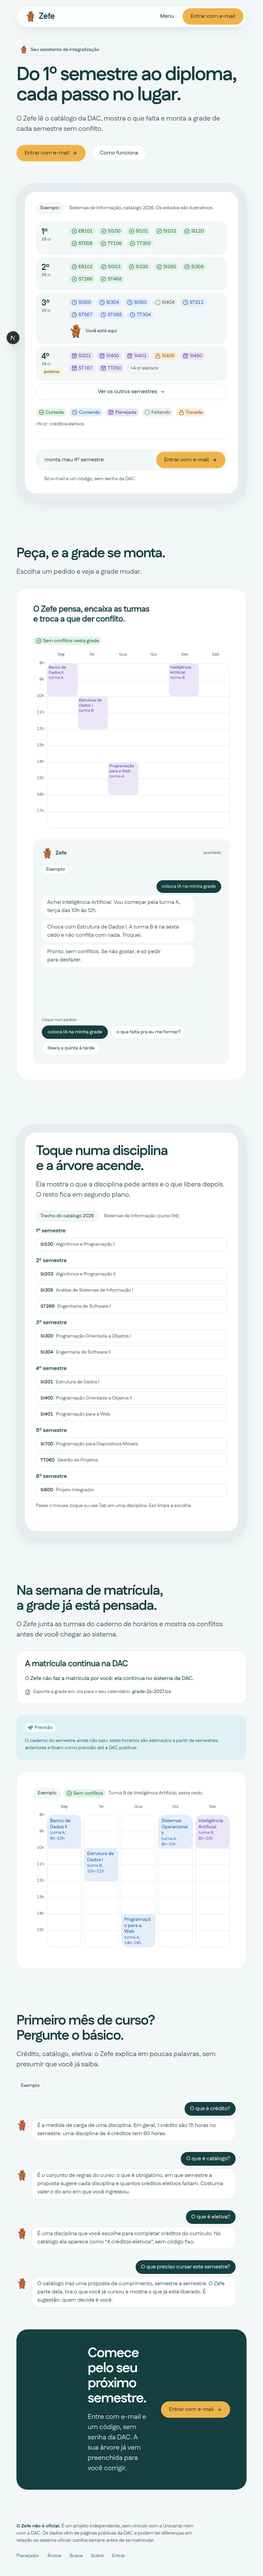
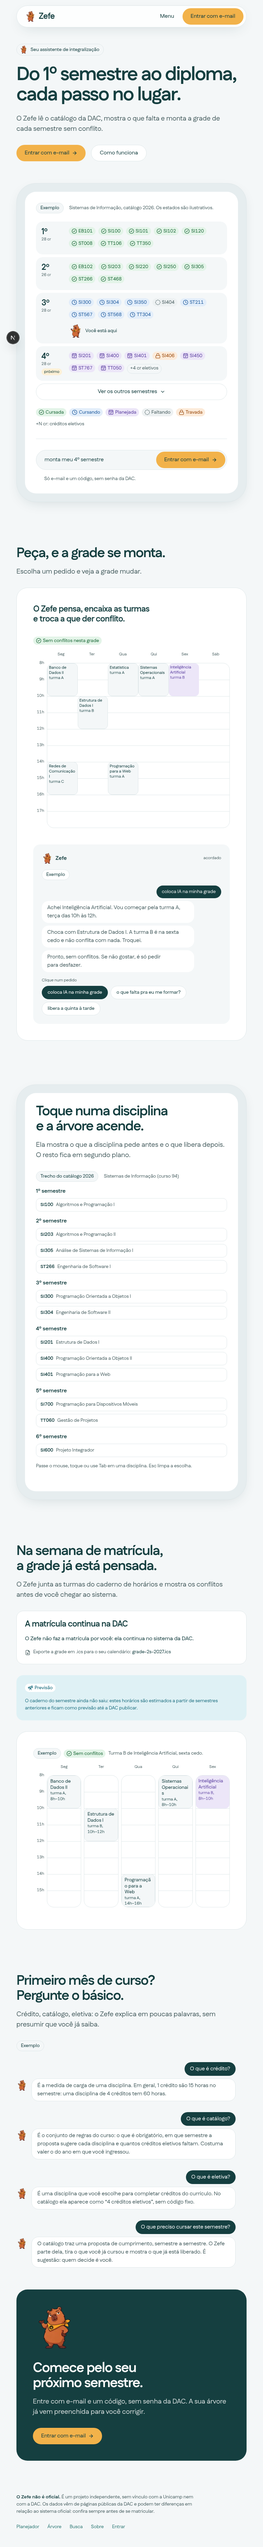
Landing v2: faixa final empilhada no tablet, chat sem vazio, agenda no celular, turmas neutras, calouro alinhado
Claude-Session: https://claude.ai/code/session_01XHBeA16jq99u1HLVpY9pk9

diff --git a/src/components/landing/PecaEVeja.tsx b/src/components/landing/PecaEVeja.tsx
@@ -8,6 +8,7 @@ import { cn } from "@/lib/utils";
 import { cenarios, type Bloco, type Cenario } from "./dados";
 
 const dias = ["Seg", "Ter", "Qua", "Qui", "Sex", "Sáb"];
+const diasLongos = ["Segunda", "Terça", "Quarta", "Quinta", "Sexta", "Sábado"];
 const HORA0 = 8;
 const HORA1 = 18; // a grade mostra só a faixa ocupada pelos exemplos
 const horas = Array.from({ length: HORA1 - HORA0 }, (_, i) => HORA0 + i);
@@ -98,7 +99,7 @@ export function PecaEVeja() {
 
   return (
     <div ref={raiz} className="grid min-w-0 gap-8 xl:grid-cols-[minmax(0,24rem)_minmax(0,1fr)] xl:gap-12">
-      <Cartao className="flex min-w-0 flex-col gap-4 border-transparent bg-ds-bg xl:order-1">
+      <Cartao className="flex min-w-0 flex-col gap-4 border-transparent bg-ds-bg xl:order-1 xl:self-start">
         <div className="flex items-center justify-between gap-2">
           <p className="flex items-center gap-2 text-ds-body font-bold text-ds-ink">
             <Mascote estado={pensando ? "pensando" : "feliz"} tamanho={32} decorativo className="size-8" />
@@ -109,7 +110,7 @@ export function PecaEVeja() {
           </p>
         </div>
         <p><Selo className="bg-ds-surface">Exemplo</Selo></p>
-        <div className="flex min-h-96 flex-col gap-2" role="log" aria-label="Conversa de exemplo com o Zefe">
+        <div className="flex flex-col gap-2" role="log" aria-label="Conversa de exemplo com o Zefe">
           {falas.map((f, i) => {
             const ultima = i === falas.length - 1 && f.de === "zefe";
             const texto = ultima ? f.texto.slice(0, dig) : f.texto;
@@ -166,13 +167,13 @@ export function PecaEVeja() {
             <Chip tom="cursada">Sem conflitos nesta grade</Chip>
           )}
         </div>
-        <div className="flex gap-2">
+        <div className="hidden gap-2 md:flex">
           <div className="w-8 shrink-0" aria-hidden />
           {dias.map((d) => (
             <p key={d} className="min-w-0 flex-1 text-center text-ds-caption">{d}</p>
           ))}
         </div>
-        <div className="flex gap-2">
+        <div className="hidden gap-2 md:flex">
           <div className="w-8 shrink-0" aria-hidden>
             {horas.map((h) => (
               <p key={h} className="h-12 -translate-y-2 text-right text-ds-caption ds-num">{h}h</p>
@@ -204,15 +205,14 @@ export function PecaEVeja() {
                         aria-label={`${b.nome}, turma ${b.turma}, ${dias[b.dia]} das ${b.ini}h às ${b.fim}h${bate ? ", em conflito" : ""}`}
                         className={cn(
                           "ds-bloco absolute overflow-hidden rounded-ds-input p-1 text-ds-caption leading-tight [overflow-wrap:anywhere] @min-[40rem]:p-2 @min-[40rem]:text-ds-small",
-                          bate ? "bg-ds-conflito-bg text-ds-conflito" : "bg-ds-planejada-bg text-ds-planejada",
+                          bate ? "bg-ds-conflito-bg text-ds-conflito" : b.id === "ia" ? "bg-ds-planejada-bg text-ds-planejada" : "border border-ds-line bg-ds-bg text-ds-ink",
                         )}
                       >
                         <p className="flex items-start gap-1 font-medium">
                           {bate && <OctagonX className="mt-1 size-3 shrink-0" aria-hidden />}
-                          <span className="sm:hidden">{b.sigla}</span>
-                          <span className="hidden sm:inline">{b.nome}</span>
+                          {b.nome}
                         </p>
-                        <p className="hidden text-ds-caption sm:block">turma {b.turma}</p>
+                        <p className="text-ds-caption">turma {b.turma}</p>
                       </div>
                     );
                   })}
@@ -220,6 +220,33 @@ export function PecaEVeja() {
             ))}
           </div>
         </div>
+        {/* Celular: agenda por dia, nome e horário em 14px */}
+        <ul className="space-y-4 md:hidden" aria-label="Grade de exemplo, por dia">
+          {diasLongos.map((nome, di) => {
+            const doDia = grade.filter((b) => b.dia === di).sort((a, b) => a.ini - b.ini);
+            if (!doDia.length) return null;
+            return (
+              <li key={nome}>
+                <h4 className="mb-2 text-ds-body font-bold text-ds-ink">{nome}</h4>
+                <ul className="space-y-2">
+                  {doDia.map((b) => (
+                    <li
+                      key={`${b.id}-${b.turma}`}
+                      className={cn(
+                        "ds-bloco flex items-start gap-2 rounded-ds-input px-4 py-2 text-ds-small",
+                        conflitos.has(b.id) ? "bg-ds-conflito-bg text-ds-conflito" : b.id === "ia" ? "bg-ds-planejada-bg text-ds-planejada" : "border border-ds-line bg-ds-bg text-ds-ink",
+                      )}
+                    >
+                      {conflitos.has(b.id) && <OctagonX className="mt-1 size-4 shrink-0" aria-hidden />}
+                      <span className="ds-num whitespace-nowrap">{b.ini}h–{b.fim}h</span>
+                      <span className="font-medium">{b.nome} · turma {b.turma}</span>
+                    </li>
+                  ))}
+                </ul>
+              </li>
+            );
+          })}
+        </ul>
       </div>
     </div>
   );

diff --git a/src/app/(site)/page.tsx b/src/app/(site)/page.tsx
@@ -113,7 +113,7 @@ export default async function Apresentacao() {
         </section>
 
         {/* 4. Conversa direto no fundo, sem painel */}
-        <section aria-labelledby="t-calouro" className={`${secao} grid gap-8 lg:grid-cols-[minmax(0,24rem)_minmax(0,1fr)] lg:gap-12`}>
+        <section aria-labelledby="t-calouro" className={`${secao} grid gap-8 lg:grid-cols-[minmax(0,24rem)_minmax(0,40rem)] lg:justify-between lg:gap-12`}>
           <div className={`${cabeca} lg:sticky lg:top-32 lg:self-start`}>
             <h2 id="t-calouro" className={h2}>Primeiro mês de curso? Pergunte o básico.</h2>
             <p className={lead}>Crédito, catálogo, eletiva: o Zefe explica em poucas palavras, sem presumir que você já saiba.</p>
@@ -133,13 +133,13 @@ export default async function Apresentacao() {
         </section>
 
         <section aria-labelledby="t-entrar" className="ds-container pb-8">
-          <div className="flex flex-col items-start gap-8 rounded-ds-panel bg-ds-band p-6 text-ds-on-band md:flex-row md:items-center md:p-12">
+          <div className="flex flex-col items-start gap-8 rounded-ds-panel bg-ds-band p-6 text-ds-on-band lg:flex-row lg:items-center md:p-12">
             <Mascote estado="feliz" tamanho={128} decorativo className="size-24 md:size-32" />
             <div className="max-w-ds-prose flex-1 space-y-4">
               <h2 id="t-entrar" className="text-ds-h2 text-ds-on-band!">Comece pelo seu próximo semestre.</h2>
               <p className="text-ds-lead text-ds-on-band/85">Entre com e-mail e um código, sem senha da DAC. A sua árvore já vem preenchida para você corrigir.</p>
             </div>
-            <Pilula href="/entrar" className="w-full md:w-auto">
+            <Pilula href="/entrar" className="w-full sm:w-auto">
               Entrar com e-mail <ArrowRight className="size-4" aria-hidden />
             </Pilula>
           </div>

diff --git a/src/components/landing/SemanaMatricula.tsx b/src/components/landing/SemanaMatricula.tsx
@@ -54,7 +54,7 @@ export function SemanaMatricula() {
 
   const blocos = etapa === 0 ? fixos : etapa === 1 ? [...fixos, turmaA] : [...fixos, turmaB];
   const choca = (b: B) => etapa === 1 && blocos.some((o) => o.id !== b.id && o.dia === b.dia && o.ini < b.fim && b.ini < o.fim);
-  const tom = (b: B) => (choca(b) ? "bg-ds-conflito-bg text-ds-conflito" : b.id === "ia" ? "bg-ds-planejada-bg text-ds-planejada" : "bg-ds-cursando-bg text-ds-cursando");
+  const tom = (b: B) => (choca(b) ? "bg-ds-conflito-bg text-ds-conflito" : b.id === "ia" ? "bg-ds-planejada-bg text-ds-planejada" : "border border-ds-line bg-ds-bg text-ds-ink");
   const rotulo = (b: B) => `${b.nome}, turma ${b.turma}, ${diasLongos[b.dia]} das ${b.ini}h às ${b.fim}h${choca(b) ? ", em conflito" : ""}`;
 
   return (

diff --git a/src/components/landing/dados.ts b/src/components/landing/dados.ts
@@ -143,6 +143,9 @@ export const baseGrade: Bloco[] = [
   { id: "web", nome: "Programação para a Web", sigla: "Web", dia: 2, ini: 14, fim: 16, turma: "A" },
   { id: "est", nome: "Estrutura de Dados I", sigla: "ED I", dia: 1, ini: 10, fim: 12, turma: "B" },
   { id: "noite", nome: "Gestão de Projetos", sigla: "GP", dia: 3, ini: 16, fim: 18, turma: "A" },
+  { id: "so", nome: "Sistemas Operacionais", sigla: "SO", dia: 3, ini: 8, fim: 10, turma: "A" },
+  { id: "redes", nome: "Redes de Comunicação I", sigla: "Redes", dia: 0, ini: 14, fim: 16, turma: "C" },
+  { id: "estat", nome: "Estatística", sigla: "Est", dia: 2, ini: 8, fim: 10, turma: "A" },
 ];
 
 const ia: Bloco = { id: "ia", nome: "Inteligência Artificial", sigla: "IA", dia: 1, ini: 10, fim: 12, turma: "A" };

diff --git a/DESIGN.md b/DESIGN.md
@@ -32,6 +32,7 @@ O âmbar faz **um trabalho**: a ação principal (Entrar com e-mail). Segundo us
 
 **Componentes** (`src/components/ds/`): `Pilula` (botão/link, h 48, px 24, 500/16; `primaria` âmbar, `secundaria` branca com borda, `fantasma` texto; `pilula.base` para `<button>`) · `NavLanding` (pílula branca 80% + blur só aqui, borda 1px, altura 64, afastada 16px do topo, `sticky`; logo + Planejador, Árvore, Busca, Sobre, Entrar, Entrar com e-mail) · `Chip` (pílula 12px, tons de estado/aviso, ícone + texto) · `Cartao` (branco, r20, borda, p24; usado na matrícula, no painel de conversa do Peça e veja e nas notas, sempre p24, variantes só de cor de fundo) · `Painel` (r32) · `Moldura` (r56, anel `ds-frame`, painel branco r32 dentro) · `Selo` (pílula pequena, frase simples, só duas falas: **"Exemplo"** para tudo ilustrativo e **"Trecho do catálogo 2026"** para dado conferido com a DAC; o selo com o mascote no hero ("Seu assistente de integralização") é o único selo permitido acima de um título: pílula em frase simples, não um eyebrow em caixa-alta espaçada) · `RodapeLanding`.
 **Padrão de seção**: h2 + frase de apoio (`max-w-ds-prose`, 40rem) sobre o gelo, com arranjos alternados: Peça e veja = painel largo com um h3 de afirmação; árvore = `Moldura` com o título dentro; matrícula = painel à esquerda, texto + `Cartao` à direita; calouro = conversa direto no fundo, sem painel; faixa final em `ds-band` r32 com botão âmbar e o mascote em 96/128px (`<Mascote tamanho decorativo>`). Hero alinhado à esquerda.
+**Fontes (exceção temporária)**: a landing ainda carrega Bricolage, Hanken e JetBrains porque o layout raiz as carrega para o app; sai quando a migração do app para o v2 for mesclada.
 **Navegação no celular**: abaixo de `lg` a nav mostra logo + "Menu" (folha r20 com Planejador, Árvore, Busca, Sobre, via `<details>` nativo) + "Entrar"; de `lg` os links ficam na pílula. No celular a fita mostra 1º-4º semestre e o resto abre por "Ver os outros semestres" (`aria-expanded`). Linhas da árvore: 1px e 2px.
 **Movimento**: ease `cubic-bezier(.22,1,.36,1)`, 300-500 ms; uma orquestração de entrada (`.ds-subir` no hero, colunas da fita e moldura escalonadas); blocos dos demos `.ds-bloco`; demos tocam uma vez; tudo estático com `prefers-reduced-motion`.
 **Regras anti "AI-gerado"**: sem texto em gradiente, sem blur/glass além da nav, sem blobs/glows, sem emoji, sem eyebrow em caixa-alta, sem fios de tinta 2px, sem mono, sem fileira de 3 cartões iguais como estrutura, sem hero centralizado, sem pseudo-3D, sem gradiente roxo-azul. Mesmo padding de cartão em todo lugar; tudo na escala de 8.
